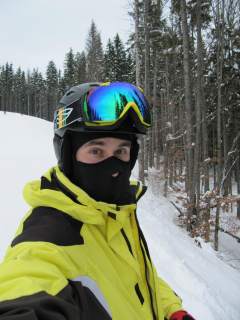
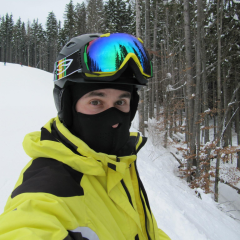
refactor: move main-image to folder img

diff --git a/index.html b/index.html
@@ -12,9 +12,86 @@
     <div class="wrapper">
         <aside class="sidebar">
             <img class="main-image" src="./img/NikFrost.png" alt="photo CV">
+            <h1 class="main-name">MYKOLA MOROZ</h1>
+            <span id="position">Front-End Developer</span>
+            <div class="about">
+                <h4 class="about-h4">ABOUT ME</h4>
+                <p class="about-p">I am seeking a full-time/remote position of Front-End Developer where I will be able to apply my skills and knowledge, as well as develop in step with the latest technologies in IT development.</p>
+            </div>
+            <div class="about">
+                <p class="about-com">P: +380 (97) 952-7433</p>
+                <p class="about-com">E: moroz.mykola@gmail.com</p>
+            </div>
         </aside>
-        <div class="center-container">
-
+        <div class="center-container">            
+            <div class="center-block">
+                <h3 class="center-h3">WORK EXPERIENCE</h3>
+                <h4>Position</h4>
+                <table>
+                    <tr>
+                        <td>
+                            <span class="tab-name">Company Name</span>
+                            <span class="tab-year">2009-2020</span>
+                        </td>
+                    </tr>
+                    <tr>
+                        <td class="tab-text">
+                            Some text text text texttext texttext texttext texttext 
+                            texttext texttext texttext texttext texttext texttext texttext texttext texttext texttext texttext text
+                            text texttext texttext texttext texttext texttext text
+                        </td>
+                    </tr>
+                </table>
+                <h4>Position</h4>
+                <table>
+                    <tr>
+                        <td>
+                            <span class="tab-name">Company Name</span>
+                            <span class="tab-year">2009-2020</span>
+                        </td>
+                    </tr>
+                    <tr>
+                        <td class="tab-text">
+                            Some text text text texttext texttext texttext texttext 
+                            texttext texttext texttext texttext texttext texttext texttext texttext texttext texttext texttext text
+                            text texttext texttext texttext texttext texttext text
+                        </td>
+                    </tr>
+                </table>
+            </div>
+            <div class="center-block">
+                <h3 class="center-h3">EDUCATION</h3>
+                <h4>Master Degree</h4>
+                <table>
+                    <tr>
+                        <td>
+                            <span class="tab-name">University Name</span>
+                            <span class="tab-year">2009-2020</span>
+                        </td>
+                    </tr>
+                    <tr>
+                        <td class="tab-text">
+                            Some text text text texttext texttext texttext texttext 
+                            texttext texttext texttext texttext texttext texttext texttext texttext texttext texttext texttext text
+                            text texttext texttext texttext texttext texttext text
+                        </td>
+                    </tr>
+                </table>
+            </div>
+            <div class="center-block">
+                <h3 class="center-h3">PROJECTS</h3>
+            </div>
+            <div class="center-block">
+                <h3 class="center-h3">SKILLS</h3>
+            </div>
+            <div class="center-block">
+                <ul>
+                    <li>English: Intermediate B1/B2</li>
+                    <li>English: Intermediate B1/B2</li>
+                    <li>English: Intermediate B1/B2</li>
+                    <li>English: Intermediate B1/B2</li>
+                </ul>
+            </div>
         </div>
     </div>
 </body>

diff --git a/css/style.css b/css/style.css
@@ -3,6 +3,7 @@ body {
     padding: 20px;
     font-family: Arial, Helvetica, sans-serif;
     font-size: 14px;
+    color: #222222;
 }
 .wrapper {
     display: flex;
@@ -12,4 +13,65 @@ body {
 .sidebar {
     background-color: #f0f0f0;
     width: 300px;
+    padding-bottom: 40px;
+}
+.main-name {
+    padding-left: 50px;
+    margin-top: 20px;
+}
+.main-image {
+    border-radius: 240px;
+    border: 14px solid #ffffff;
+    float: right;
+    margin-right: -10px;
+    margin-top: 20px;
+    margin-bottom: 20px;
+}
+#position {
+    text-transform: uppercase;
+    padding-left: 50px;
+    font-size: 0.85em;
+}
+.about {
+    padding-top: 40px;
+    padding-left: 50px;
+}
+.about-h4 {
+    padding-left: 10px;
+    padding-bottom: 10px;
+    border-bottom: 2px solid #222222;
+    width: 160px
+}
+.about-p {
+    width: 200px;
+    text-align: justify;
+}
+.about-com {
+    font-weight: 600;
+}
+.center-container {
+    padding: 10px 0 40px 80px;
+    max-width: 800px;
+    border-right: 1px solid #f0f0f0;
+}
+.center-block {
+    padding-bottom: 20px;
+}
+.center-h3 {
+    padding-left: 20px;
+    padding-bottom: 15px;
+    border-bottom: 2px solid #222222;
+    width: 260px;
+    margin-bottom: 30px;
+}
+.tab-name {
+    font-weight: 600;
+    margin-bottom: 10px;
+    width: 260px;
+    float: left;
+}
+.tab-year {
+    font-size: 11px;
+    text-align: right;
+    font-style: italic;
 }
